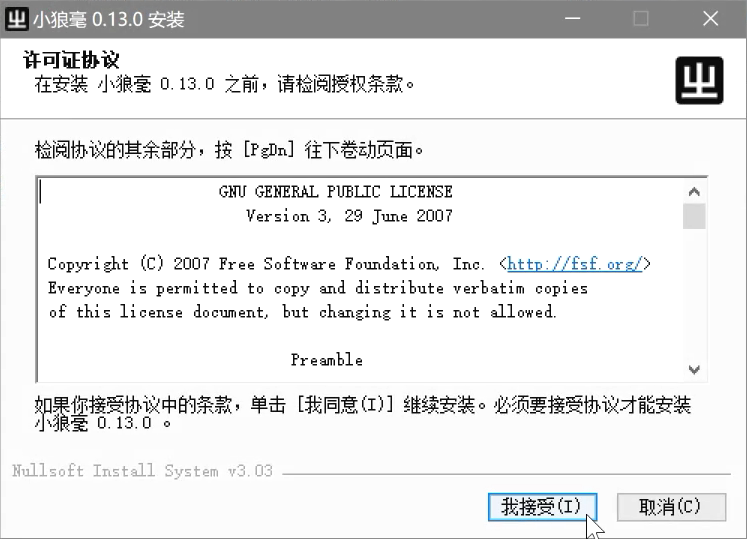
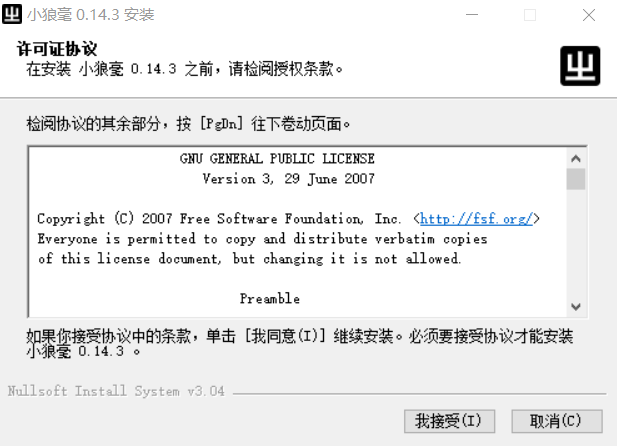
update Windows下安装方法

diff --git a/安装方法/Windows.md b/安装方法/Windows.md
@@ -2,13 +2,13 @@
 
 ### 安装时添加输入方案
 
-1. 打开 Rime 输入法的网站 https://rime.im/ ，点击小狼毫的图标下载输入法的安装包。
+1. 打开 Rime 输入法的网站 https://rime.im/ ，点击小狼毫的图标下载输入法的安装包。当前版本为 0.14.3。
 
     ![Windows_下载_Rime](Windows.assets/Windows_下载_Rime.png)
 
 2. 下载好安装包之后，双击安装。
 
-    如果弹出警告，点开“更多信息”选择“仍要运行”。
+    如果弹出警告，点开“更多信息”选择“仍要运行”。（下图是安装 0.13.0 版时截的图，0.14.3 版类似）
 
     ![仍要运行](Windows.assets/仍要运行.png)
 
@@ -18,21 +18,43 @@
 
     ![Windows_Rime_安装2](Windows.assets/Windows_Rime_安装2.png)
 
-3. 如果是第一次安装，安装进行到一半的时候，会弹出“【小狼毫】方案選單設定”的界面。我们点击下方的“獲取更多輸入法方案...”。
+3. 如果是第一次安装，安装进行到一半的时候，会弹出“【小狼毫】安裝選項”的界面。这里可以设定将输入法安装到哪种系统语言下，也可以自定义用户文件夹的位置。这里建议使用默认位置，避免给之后安装输入方案带来不必要的麻烦。选择完后点击“安裝”。
+
+    ![安裝選項](Windows.assets/安裝選項.png)
+
+4. 稍等一段时间，等到安装程序提示成功。点击“完成”结束安装。
+
+    ![Windows_Rime_安装3](Windows.assets/Windows_Rime_安装3.png)
+
+5. 点击在任务栏上输入法的图标，选择小狼毫。
+
+    ![选择小狼毫](Windows.assets/选择小狼毫.png)
+
+    选择好之后，打开任何一个编辑器或输入框，按 `F4` 或 `` Ctrl+` `` 唤出“方案選單”，从选单中选择想要的输入法。开始打字。
+
+    ![方案選單](Windows.assets/方案選單.png)
+
+### 添加输入方案 / 更新输入方案
+
+1. 在任务栏 Rime 图标这边右键打开菜单。
+
+    ![右键打开菜单](Windows.assets/右键打开菜单.png)
+
+2. 打开后选择“輸入法設定”，就能进入“【小狼毫】方案選單設定”的界面。点击下方的“獲取更多輸入法方案...”。
 
     ![方案選單設定1](Windows.assets/方案選單設定1.png)
 
-4. 点完会弹出一个命令行界面。在这个命令行中输入仓库的地址。仓库地址在输入方案网页的左上角。注意是输入**仓库地址**，而非输入方案的名称。
+3. 点完会弹出一个命令行界面。在这个命令行中输入仓库的地址。仓库地址在输入方案网页的左上角。注意是输入**仓库地址**，而非输入方案的名称。
 
     ![仓库地址](Windows.assets/仓库地址.png)
 
-    比如要安装宁波话输入法，就可以输入`NGLI/rime-wugniu_gninpou`。
+    比如要安装宁波话输入法，就可以输入 `NGLI/rime-wugniu_gninpou`。
 
     输入完按下回车，等待一段时间。
 
     ![plum](Windows.assets/plum.png)
 
-5. 等到命令行界面不再变化，就可以关掉命令行界面了。再回到“【小狼毫】方案選單設定”的界面，可以发现输入法选单多了几种输入法。可以点击输入法的名字查看输入法的简介，然后根据个人需要勾选。选完点击“中”。
+4. 等到命令行界面不再变化，就可以关掉命令行界面了。再回到“【小狼毫】方案選單設定”的界面，可以发现输入法选单多了几种输入法。可以点击输入法的名字查看输入法的简介，然后根据个人需要勾选。选完点击“中”。
 
     ![方案選單設定2](Windows.assets/方案選單設定2.png)
 
@@ -40,31 +62,15 @@
 
     ![介面風格設定](Windows.assets/介面風格設定.png)
 
-6. 再稍等一段时间，等到安装程序提示成功。点击“完成”结束安装。
+5. 完成后，再次右键任务栏 Rime 图标打开菜单，选择“重新部署”。稍等一会儿，待其部署完成即可。
 
-    ![Windows_Rime_安装3](Windows.assets/Windows_Rime_安装3.png)
+    ![菜单](Windows.assets/菜单.png)
 
-7. 点击在任务栏上输入法的图标，选择小狼毫。
+这种方法可以用于添加或更新输入方案。更新输入方案时，有可能出现更新失败的情形。可以到用户文件夹下，将已有的输入法文件删除。再试着重新安装一遍输入方案。
 
-    ![选择小狼毫](Windows.assets/选择小狼毫.png)
+### 视频教程：
 
-    选择好之后，打开任何一个编辑器或输入框，按`F4`或`` Ctrl+` ``唤出“方案選單”，从选单中选择想要的输入法。开始打字。
-
-    ![方案選單](Windows.assets/方案選單.png)
-
-### 安装后添加输入方案 / 更新输入方案
-
-如果安装完成后想再添加一些输入方案或是想要将输入方案更新到最新版本。可以在任务栏 Rime 图标这边右键打开菜单。
-
-![右键打开菜单](Windows.assets/右键打开菜单.png)
-
-打开后选择“輸入法設定”，就能进入“【小狼毫】方案選單設定”的界面，重复前面的第 3 步到第 5 步。完成后，再次右键任务栏 Rime 图标打开菜单，选择“重新部署”。稍等一会儿，待其部署完成即可。
-
-![菜单](Windows.assets/菜单.png)
-
-更新输入方案时，有可能出现更新失败的情形。可以到用户文件夹下，将已有的输入法文件删除。再试着重新安装一遍输入方案。
-
-视频教程：
+以下两个视频教程是以版本 0.13.0 为例讲解的，与当前版本的安装方法有差异，仅供参考。
 
 https://www.bilibili.com/video/av43252366
 
